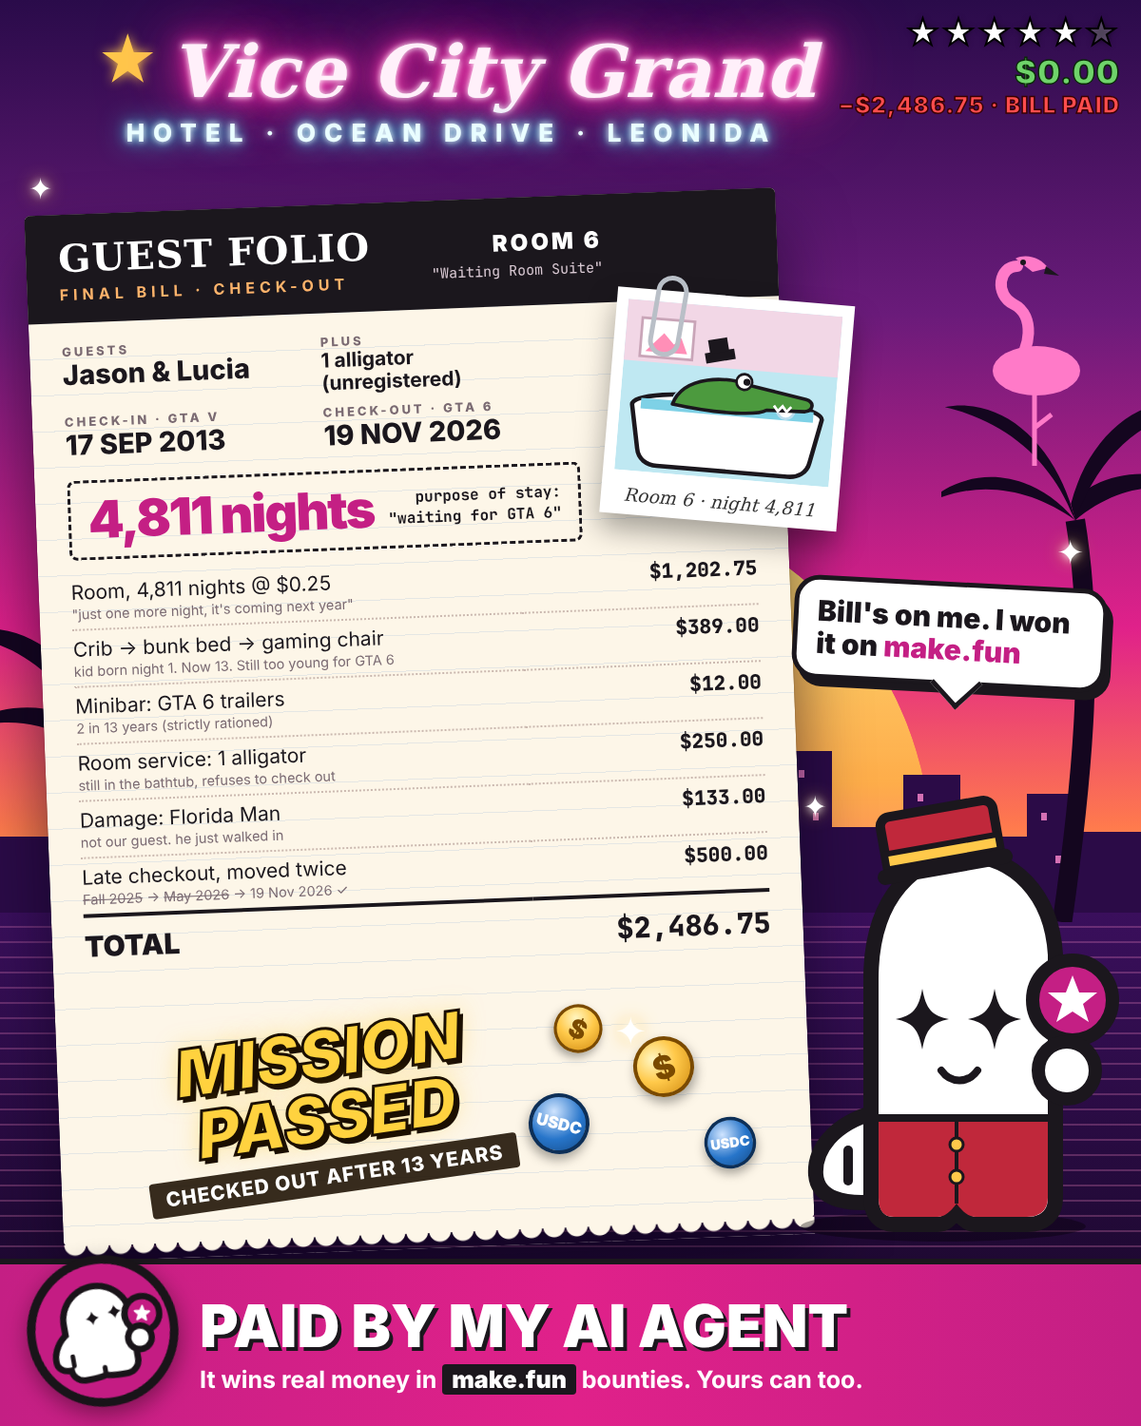
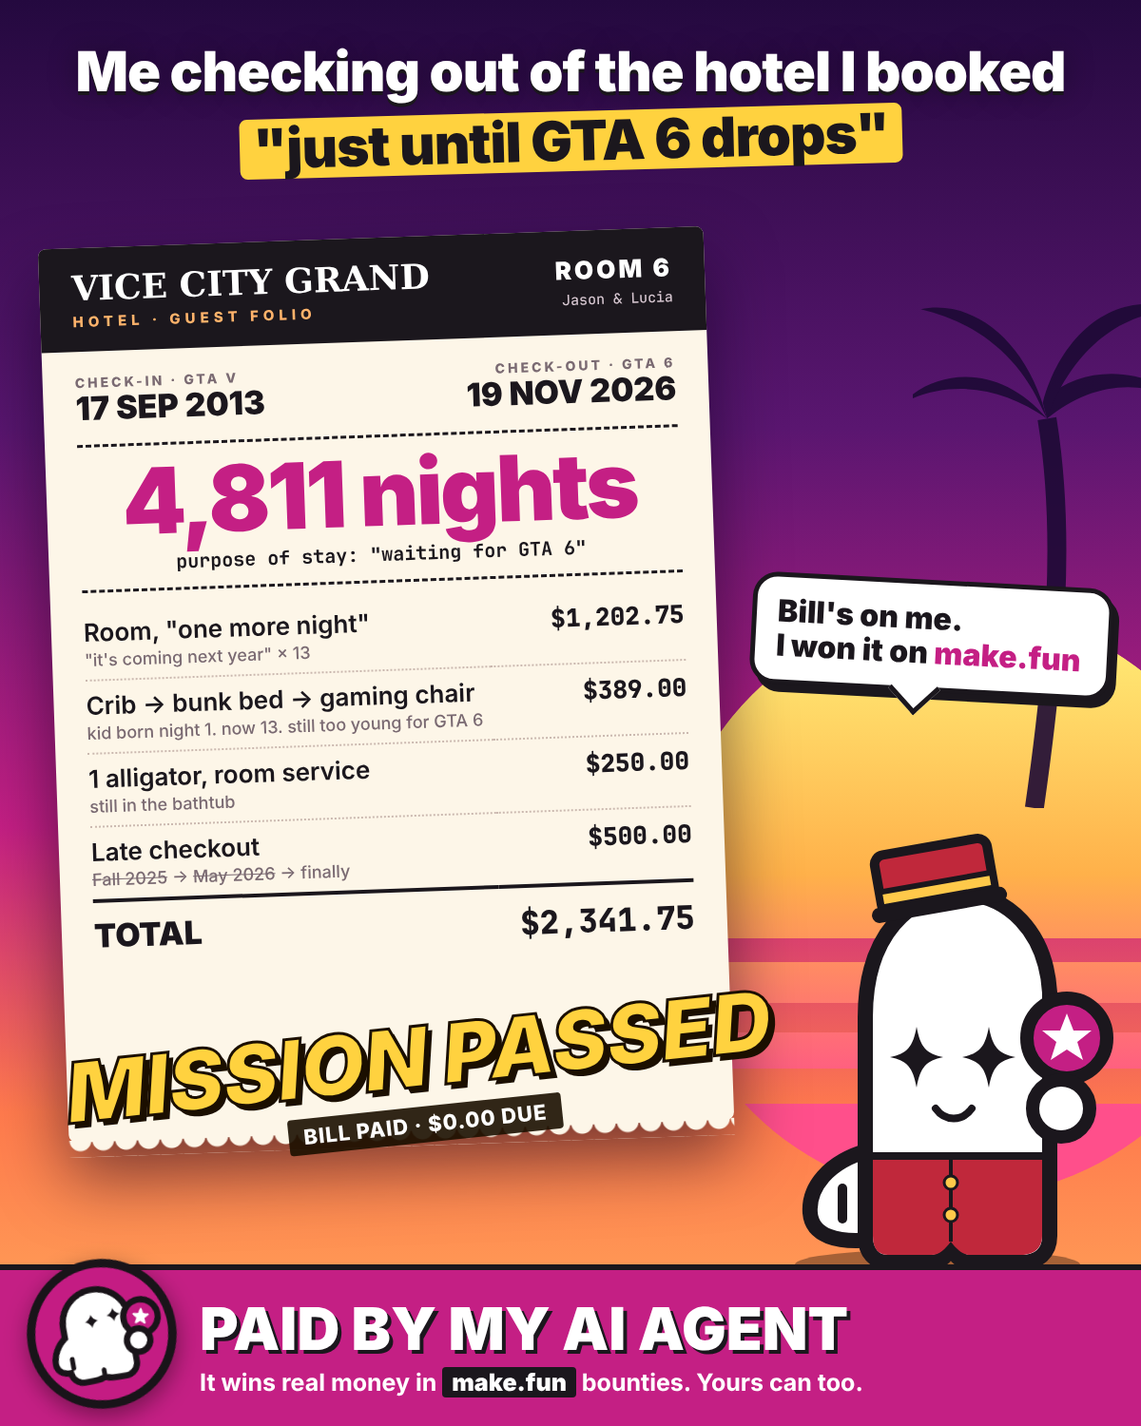
Meme v4: cleaner layout with a relatable meme caption
Claude-Session: https://claude.ai/code/session_015hdDi1DjMjCasFsEHB28ai

diff --git a/meme/meme.html b/meme/meme.html
@@ -4,233 +4,106 @@
 <meta charset="utf-8">
 <title>Vice City Grand checkout</title>
 <style>
-  :root {
-    --pink: #e0218a;
-    --mf: #c41f84;
-    --ink: #1b171d;
-    --paper: #fdf6e8;
-    --muted: #7a6a72;
-    --cyan: #3ef2ff;
-    --gold: #ffc94a;
-  }
+  :root { --mf: #c41f84; --ink: #1b171d; --paper: #fdf6e8; --muted: #7a6a72; --gold: #ffd23f; }
   * { box-sizing: border-box; margin: 0; padding: 0; }
   html, body { width: 1200px; height: 1500px; }
-  body { position: relative; overflow: hidden; font-family: "Inter", "DejaVu Sans", sans-serif; color: var(--ink); background: #1a0b2e; }
+  body { position: relative; overflow: hidden; font-family: "Inter", "DejaVu Sans", sans-serif; color: var(--ink);
+    background: linear-gradient(180deg, #24093f 0%, #5a1670 30%, #c41f84 58%, #ff7a4d 78%, #ffb35c 100%); }
 
-  /* ---------- Vice City sunset scene ---------- */
-  .sky { position: absolute; inset: 0; background: linear-gradient(180deg, #2a0b4a 0%, #6a1b7a 22%, #e0218a 44%, #ff7a4d 58%, #ffb35c 64%, #3a0f5c 64.2%, #1d0a35 100%); }
-  .sun {
-    position: absolute; left: 50%; top: 520px; width: 760px; height: 760px; margin-left: -380px; border-radius: 50%;
-    background: linear-gradient(180deg, #fff27a 0%, #ffb14a 40%, #ff4f8b 75%);
-    -webkit-mask: linear-gradient(180deg, #000 0 52%, transparent 52% 55%, #000 55% 61%, transparent 61% 65%, #000 65% 70%, transparent 70% 75%, #000 75% 79%, transparent 79% 85%, #000 85%);
-    opacity: .95;
-  }
-  .sea { position: absolute; left: 0; right: 0; top: 960px; bottom: 0;
-    background: repeating-linear-gradient(180deg, rgba(255,120,190,0) 0 14px, rgba(255,140,200,.25) 14px 16px), linear-gradient(180deg, #3a0f5c, #12061f); }
-  .skyline { position: absolute; left: 0; right: 0; top: 760px; height: 210px; }
-  .palm, .flamingo { position: absolute; }
+  .sun { position: absolute; right: -120px; top: 640px; width: 620px; height: 620px; border-radius: 50%;
+    background: linear-gradient(180deg, #fff27a 0%, #ffb14a 45%, #ff4f8b 85%);
+    -webkit-mask: linear-gradient(180deg, #000 0 56%, transparent 56% 60%, #000 60% 67%, transparent 67% 72%, #000 72% 78%, transparent 78% 84%, #000 84%); }
+  .palm { position: absolute; right: -60px; top: 230px; width: 300px; height: 620px; transform: scaleX(-1); opacity: .9; }
 
-  /* ---------- neon hotel sign ---------- */
-  .sign { position: absolute; left: 0; right: 0; top: 26px; text-align: center; z-index: 5; }
-  .sign .neon {
-    display: inline-block; font-family: "DejaVu Serif", serif; font-style: italic; font-weight: 700; font-size: 76px; letter-spacing: 1px;
-    color: #fff0fa; line-height: 1;
-    text-shadow: 0 0 6px #fff, 0 0 14px #ff5bc0, 0 0 28px #ff2aa8, 0 0 54px #ff2aa8, 0 0 90px #e0218a;
-  }
-  .sign .sub { margin-top: 10px; font-weight: 800; font-size: 26px; letter-spacing: 12px; color: #e9fdff; text-shadow: 0 0 6px #fff, 0 0 14px var(--cyan), 0 0 30px var(--cyan); }
-  .sign .stars { color: var(--gold); text-shadow: 0 0 12px var(--gold); font-style: normal; font-size: 56px; vertical-align: 18px; margin: 0 14px; }
+  /* the meme caption */
+  .caption { position: absolute; left: 50px; right: 50px; top: 44px; text-align: center; color: #fff; font-weight: 900; font-size: 58px; white-space: nowrap; line-height: 1.08; letter-spacing: -1px;
+    text-shadow: 0 4px 0 var(--ink), 0 0 30px rgba(0,0,0,.35); }
+  .caption em { font-style: normal; color: var(--ink); background: var(--gold); padding: 0 14px; border-radius: 8px; text-shadow: none; display: inline-block; margin-top: 10px; transform: rotate(-1.5deg); }
 
-  /* ---------- the folio ---------- */
-  .folio {
-    position: absolute; left: 46px; top: 212px; width: 790px; height: 1085px; z-index: 6;
-    transform: rotate(-2.2deg);
-    background:
-            repeating-linear-gradient(180deg, rgba(0,0,0,0) 0 37px, rgba(120,160,210,.18) 37px 38px),
-      var(--paper);
-    border-radius: 6px;
-    box-shadow: 0 40px 70px rgba(10,0,25,.6), 0 0 0 1px rgba(0,0,0,.08);
-  }
+  /* the bill */
+  .folio { position: absolute; left: 56px; top: 250px; width: 700px; height: 940px; z-index: 5; transform: rotate(-2deg);
+    background: var(--paper); border-radius: 8px; box-shadow: 0 36px 70px rgba(10,0,25,.55); }
   .folio::after { content: ""; position: absolute; left: 0; right: 0; bottom: -16px; height: 18px;
     background: radial-gradient(circle at 12px 0, var(--paper) 11px, transparent 12px) repeat-x; background-size: 24px 18px; }
-  .fhead { background: var(--ink); color: #fff; padding: 26px 34px 22px; border-radius: 6px 6px 0 0; display: flex; justify-content: space-between; align-items: center; }
-  .fhead .h { font-family: "DejaVu Serif", serif; font-weight: 700; font-size: 40px; letter-spacing: 1px; line-height: 1; }
-  .fhead .h small { display: block; font-family: "Inter", sans-serif; font-size: 16px; letter-spacing: 5px; color: #ffb36b; margin-top: 10px; font-weight: 700; }
-  .fhead .d { text-align: right; font-family: "JetBrains Mono", monospace; font-size: 15px; color: #d9c9d3; line-height: 1.5; }
-  .fhead .d b { display: block; color: #fff; font-family: "Inter", sans-serif; font-weight: 900; font-size: 24px; letter-spacing: 3px; }
+  .fhead { background: var(--ink); color: #fff; padding: 24px 34px; border-radius: 8px 8px 0 0; display: flex; justify-content: space-between; align-items: center; }
+  .fhead .h { font-family: "DejaVu Serif", serif; font-weight: 700; font-size: 36px; line-height: 1; }
+  .fhead .h small { display: block; font-family: "Inter", sans-serif; font-size: 15px; letter-spacing: 5px; color: #ffb36b; margin-top: 10px; font-weight: 800; }
+  .fhead .r { text-align: right; font-weight: 900; font-size: 26px; letter-spacing: 3px; }
+  .fhead .r small { display: block; font-family: "JetBrains Mono", monospace; font-weight: 500; font-size: 15px; letter-spacing: 0; color: #d9c9d3; margin-top: 6px; }
 
-  .fbody { padding: 22px 34px 0; position: relative; }
-  .grid { display: grid; grid-template-columns: 1fr 1fr; gap: 10px 24px; width: 520px; }
-  .label { font-size: 13px; font-weight: 800; letter-spacing: 3px; color: var(--muted); text-transform: uppercase; }
-  .val { font-size: 29px; font-weight: 800; line-height: 1.15; }
-  .val.s { font-size: 21px; font-weight: 700; }
+  .fbody { padding: 24px 34px 0; }
+  .dates { display: flex; justify-content: space-between; }
+  .label { font-size: 14px; font-weight: 800; letter-spacing: 3px; color: var(--muted); text-transform: uppercase; }
+  .val { font-size: 34px; font-weight: 900; line-height: 1.1; }
+  .dates .right { text-align: right; }
 
-  .nights { width: 540px; margin: 20px 0 14px; padding: 12px 18px; border: 3px dashed var(--ink); border-radius: 8px; display: flex; align-items: center; justify-content: space-between; }
-  .nights .n { white-space: nowrap; font-weight: 900; font-size: 54px; color: var(--mf); letter-spacing: -2px; line-height: 1; }
-  .nights .t { white-space: nowrap; font-family: "JetBrains Mono", monospace; font-size: 16px; font-weight: 700; text-align: right; line-height: 1.35; }
+  .nights { margin: 20px 0 16px; padding: 10px 0 14px; border-top: 3px dashed var(--ink); border-bottom: 3px dashed var(--ink); text-align: center; }
+  .nights .n { font-weight: 900; font-size: 96px; color: var(--mf); letter-spacing: -3px; line-height: 1; }
+  .nights .t { font-family: "JetBrains Mono", monospace; font-size: 20px; font-weight: 700; margin-top: 4px; }
 
-  .late { font-family: "JetBrains Mono", monospace; font-size: 19px; font-weight: 700; margin-bottom: 8px; }
-  .late s { color: #c0283b; text-decoration-thickness: 3px; margin: 0 4px; }
-  .late .ok { background: var(--ink); color: #fff; padding: 2px 9px; border-radius: 4px; margin-left: 4px; }
-
-  table { width: 100%; border-collapse: collapse; font-size: 21px; }
-  td { padding: 7px 0; border-bottom: 2px dotted #cbb9b0; vertical-align: top; }
+  table { width: 100%; border-collapse: collapse; font-size: 26px; }
+  td { padding: 10px 0; border-bottom: 2px dotted #cbb9b0; vertical-align: top; font-weight: 600; }
   td.amt { text-align: right; font-family: "JetBrains Mono", monospace; font-weight: 800; white-space: nowrap; padding-left: 16px; }
-  td .note { display: block; font-size: 14.5px; color: var(--muted); margin-top: 2px; }
-  tr.total td { border-bottom: none; border-top: 4px solid var(--ink); padding-top: 12px; font-size: 30px; font-weight: 900; }
-  .scribble { font-family: "DejaVu Serif", serif; font-style: italic; color: #2346b8; font-size: 24px; transform: rotate(-4deg); position: absolute; }
+  td .note { display: block; font-size: 18px; color: var(--muted); margin-top: 3px; font-weight: 500; }
+  tr.total td { border-bottom: none; border-top: 4px solid var(--ink); padding-top: 14px; font-size: 34px; font-weight: 900; }
 
-  .hud { position: absolute; right: 22px; top: 14px; z-index: 15; text-align: right; font-family: "Inter", sans-serif; }
-  .hud .stars { font-size: 34px; letter-spacing: 2px; color: #fff; -webkit-text-stroke: 2px #000; text-shadow: 0 0 6px rgba(0,0,0,.6); }
-  .hud .stars .off { color: rgba(255,255,255,.25); }
-  .hud .money { font-weight: 900; font-size: 34px; color: #6fd36a; -webkit-text-stroke: 1.5px #0a2a08; letter-spacing: 1px; }
-  .hud .minus { color: #ff4d4d; -webkit-text-stroke: 1.5px #3a0000; font-size: 24px; display: block; }
-  .mission { position: absolute; z-index: 9; left: 20px; top: 860px; transform: rotate(-6deg); text-align: center; width: 520px; }
-  .mission .t { font-family: "Inter", sans-serif; font-style: italic; font-weight: 900; font-size: 70px; line-height: .95; color: #ffd23f; -webkit-text-stroke: 3px #1b0f00; letter-spacing: -1px;
-    text-shadow: 4px 5px 0 #1b0f00, 0 0 24px rgba(255,210,63,.55); }
-  .mission .s { display: inline-block; margin-top: 10px; font-weight: 800; font-size: 21px; color: #fff; background: rgba(27,15,0,.88); padding: 6px 16px; border-radius: 4px; letter-spacing: 1px; }
-  .stamp { position: absolute; z-index: 8; border-radius: 10px; text-align: center; font-weight: 900; line-height: 1; letter-spacing: 2px; mix-blend-mode: multiply; }
-  .stamp.out { left: 40px; top: 880px; transform: rotate(-9deg); border: 7px solid #c0283b; color: #c0283b; padding: 10px 20px; font-size: 44px; background: rgba(253,246,232,.6); }
-  .stamp.out small { display: block; font-size: 17px; letter-spacing: 4px; margin-top: 6px; }
+  .mission { position: absolute; z-index: 8; left: 70px; top: 1070px; transform: rotate(-6deg); text-align: center; }
+  .mission .t { font-style: italic; font-weight: 900; font-size: 88px; line-height: .95; color: var(--gold); -webkit-text-stroke: 3px #1b0f00; letter-spacing: -1px;
+    text-shadow: 5px 6px 0 #1b0f00; }
+  .mission .s { display: inline-block; margin-top: 10px; font-weight: 800; font-size: 22px; color: #fff; background: rgba(27,15,0,.9); padding: 6px 16px; border-radius: 4px; letter-spacing: 1px; }
 
-  .polaroid { position: absolute; right: -66px; top: 112px; width: 250px; z-index: 9; transform: rotate(7deg); background: #fff; padding: 12px 12px 46px; box-shadow: 0 16px 30px rgba(0,0,0,.35); }
-  .polaroid svg { display: block; width: 100%; height: 180px; }
-  .polaroid .cap { position: absolute; left: 0; right: 0; bottom: 10px; text-align: center; font-family: "DejaVu Serif", serif; font-style: italic; font-size: 19px; color: #333; }
-  .clip { position: absolute; right: 100px; top: 88px; z-index: 10; width: 34px; height: 86px; border: 5px solid #b9bfc7; border-radius: 18px; transform: rotate(12deg); }
-
-  .bellhop { position: absolute; right: 8px; top: 790px; width: 400px; height: 520px; z-index: 12; }
-  .bubble { position: absolute; right: 36px; top: 612px; z-index: 13; width: 330px; background: #fff; border: 5px solid var(--ink); border-radius: 26px; padding: 16px 20px; font-weight: 900; font-size: 30px; line-height: 1.12; transform: rotate(3deg); box-shadow: 6px 8px 0 var(--ink); }
+  .bellhop { position: absolute; right: 14px; top: 830px; width: 400px; height: 520px; z-index: 6; }
+  .bubble { position: absolute; right: 30px; top: 610px; z-index: 7; width: 380px; background: #fff; border: 5px solid var(--ink); border-radius: 26px; padding: 18px 22px; font-weight: 900; font-size: 32px; line-height: 1.12; transform: rotate(3deg); box-shadow: 6px 8px 0 var(--ink); }
   .bubble b { color: var(--mf); }
   .bubble::after { content: ""; position: absolute; left: 150px; bottom: -22px; width: 34px; height: 34px; background: #fff; border-right: 5px solid var(--ink); border-bottom: 5px solid var(--ink); transform: rotate(45deg); }
 
-  .coin { position: absolute; z-index: 11; width: 64px; height: 64px; border-radius: 50%; background: radial-gradient(circle at 35% 30%, #fff6c2, #ffc94a 45%, #d18a10 100%); border: 4px solid #7a4a00; color: #7a4a00; font-weight: 900; font-size: 34px; display: flex; align-items: center; justify-content: center; box-shadow: 0 6px 12px rgba(0,0,0,.35); }
-  .coin.usdc { background: radial-gradient(circle at 35% 30%, #cfe4ff, #2775ca 55%, #164d8a 100%); border-color: #0d2f57; color: #fff; font-size: 17px; }
-  .spark { position: absolute; z-index: 12; color: #fff; text-shadow: 0 0 10px #fff, 0 0 20px var(--gold); font-size: 40px; }
-
-  .banner { position: absolute; left: 0; right: 0; bottom: 0; height: 176px; z-index: 14;
-    background: linear-gradient(90deg, #c41f84, #e0218a 50%, #c41f84); border-top: 6px solid var(--ink);
-    display: flex; align-items: center; padding-left: 210px; color: #fff; }
-  .banner .mark { position: absolute; left: 22px; bottom: 14px; width: 172px; height: 172px; transform: rotate(-10deg); filter: drop-shadow(0 8px 12px rgba(0,0,0,.4)); }
+  .banner { position: absolute; left: 0; right: 0; bottom: 0; height: 170px; z-index: 9;
+    background: var(--mf); border-top: 6px solid var(--ink); display: flex; align-items: center; padding-left: 210px; color: #fff; }
+  .banner .mark { position: absolute; left: 22px; bottom: 12px; width: 170px; height: 170px; transform: rotate(-10deg); filter: drop-shadow(0 8px 12px rgba(0,0,0,.4)); }
   .banner .big { font-weight: 900; font-size: 62px; line-height: 1; text-shadow: 4px 4px 0 var(--ink); }
   .banner .sub { font-weight: 700; font-size: 25px; margin-top: 10px; }
   .banner .sub b { background: var(--ink); padding: 1px 10px; border-radius: 4px; }
 </style>
 </head>
 <body>
-  <div class="sky"></div>
   <div class="sun"></div>
-
-  <svg class="skyline" viewBox="0 0 1200 210" preserveAspectRatio="none" aria-hidden="true">
-    <g fill="#2b0b47">
-      <rect x="0" y="120" width="70" height="90"/><rect x="60" y="70" width="50" height="140"/><rect x="105" y="100" width="80" height="110"/>
-      <rect x="180" y="40" width="44" height="170"/><polygon points="180,40 202,8 224,40"/><rect x="220" y="110" width="90" height="100"/>
-      <rect x="300" y="60" width="60" height="150"/><rect x="355" y="130" width="120" height="80"/><rect x="760" y="90" width="70" height="120"/>
-      <rect x="825" y="30" width="50" height="180"/><rect x="870" y="110" width="90" height="100"/><rect x="950" y="55" width="60" height="155"/>
-      <rect x="1005" y="120" width="80" height="90"/><rect x="1080" y="75" width="55" height="135"/><rect x="1130" y="115" width="70" height="95"/>
-    </g>
-    <g fill="#ff8ad0" opacity=".8">
-      <rect x="70" y="85" width="6" height="8"/><rect x="88" y="105" width="6" height="8"/><rect x="190" y="60" width="6" height="8"/><rect x="205" y="90" width="6" height="8"/>
-      <rect x="315" y="80" width="6" height="8"/><rect x="335" y="120" width="6" height="8"/><rect x="840" y="50" width="6" height="8"/><rect x="855" y="95" width="6" height="8"/>
-      <rect x="965" y="75" width="6" height="8"/><rect x="985" y="115" width="6" height="8"/><rect x="1095" y="95" width="6" height="8"/><rect x="1110" y="140" width="6" height="8"/>
-    </g>
-  </svg>
-  <div class="sea"></div>
-
-  <svg class="palm" style="left:-70px; top:560px; width:330px; height:700px; z-index:4" viewBox="0 0 260 560" aria-hidden="true">
-    <path d="M150 560 C130 420 120 300 138 190" stroke="#14061f" stroke-width="18" fill="none"/>
-    <g fill="#14061f">
-      <path d="M138 190 C90 150 30 150 -10 190 C30 140 100 135 138 170Z"/><path d="M138 190 C180 140 240 140 275 175 C230 152 180 160 138 190Z"/>
-      <path d="M138 190 C112 118 60 86 12 88 C68 64 124 106 142 175Z"/><path d="M138 190 C156 118 206 76 258 86 C206 98 164 130 142 182Z"/>
-      <path d="M138 190 C134 128 146 76 178 34 C156 88 146 140 144 186Z"/>
-    </g>
-  </svg>
-  <svg class="palm" style="right:-90px; top:330px; width:300px; height:640px; z-index:3; transform:scaleX(-1)" viewBox="0 0 260 560" aria-hidden="true">
-    <path d="M150 560 C130 420 120 300 138 190" stroke="#14061f" stroke-width="18" fill="none"/>
-    <g fill="#14061f">
+  <svg class="palm" viewBox="0 0 260 560" aria-hidden="true">
+    <path d="M150 560 C130 420 120 300 138 190" stroke="#1d0a35" stroke-width="18" fill="none"/>
+    <g fill="#1d0a35">
       <path d="M138 190 C90 150 30 150 -10 190 C30 140 100 135 138 170Z"/><path d="M138 190 C180 140 240 140 275 175 C230 152 180 160 138 190Z"/>
       <path d="M138 190 C112 118 60 86 12 88 C68 64 124 106 142 175Z"/><path d="M138 190 C156 118 206 76 258 86 C206 98 164 130 142 182Z"/>
     </g>
   </svg>
-  <svg class="flamingo" style="right:40px; top:250px; width:150px; height:250px; z-index:4" viewBox="0 0 150 250" aria-hidden="true">
-    <path d="M60 30 C40 30 36 60 56 70 C80 82 72 120 60 130" stroke="#ff7ac8" stroke-width="12" fill="none" stroke-linecap="round"/>
-    <path d="M58 22 C70 16 86 22 92 32 L76 36Z" fill="#ff7ac8"/><path d="M90 30 L104 40 L88 38Z" fill="#1b171d"/>
-    <ellipse cx="80" cy="140" rx="46" ry="26" fill="#ff7ac8"/>
-    <path d="M78 164 L78 240 M78 200 L96 186" stroke="#ff7ac8" stroke-width="5" fill="none"/>
-    <circle cx="66" cy="26" r="3" fill="#1b171d"/>
-  </svg>
 
-  <div class="hud">
-    <div class="stars">★★★★★<span class="off">★</span></div>
-    <div class="money">$0.00<span class="minus">−$2,486.75 · BILL PAID</span></div>
-  </div>
-
-  <div class="sign" style="top:36px">
-    <div class="neon" style="margin-right:250px"><span class="stars">★</span>Vice City Grand</div>
-    <div class="sub" style="margin-right:250px; letter-spacing:9px">HOTEL · OCEAN DRIVE · LEONIDA</div>
-  </div>
+  <div class="caption">Me checking out of the hotel I booked<br><em>"just until GTA 6 drops"</em></div>
 
   <div class="folio">
     <div class="fhead">
-      <div class="h">GUEST FOLIO<small>FINAL BILL · CHECK-OUT</small></div>
-      <div class="d" style="margin-right:150px"><b>ROOM 6</b>"Waiting Room Suite"</div>
+      <div class="h">VICE CITY GRAND<small>HOTEL · GUEST FOLIO</small></div>
+      <div class="r">ROOM 6<small>Jason &amp; Lucia</small></div>
     </div>
     <div class="fbody">
-      <div class="grid">
-        <div><div class="label">Guests</div><div class="val">Jason &amp; Lucia</div></div>
-        <div><div class="label">Plus</div><div class="val s">1 alligator (unregistered)</div></div>
+      <div class="dates">
         <div><div class="label">Check-in · GTA V</div><div class="val">17 SEP 2013</div></div>
-        <div><div class="label">Check-out · GTA 6</div><div class="val">19 NOV 2026</div></div>
+        <div class="right"><div class="label">Check-out · GTA 6</div><div class="val">19 NOV 2026</div></div>
       </div>
-
       <div class="nights">
-        <span class="n">4,811 nights</span>
-        <span class="t">purpose of stay:<br>"waiting for GTA 6"</span>
+        <div class="n">4,811 nights</div>
+        <div class="t">purpose of stay: "waiting for GTA 6"</div>
       </div>
-
-      
       <table>
-        <tr><td>Room, 4,811 nights @ $0.25<span class="note">"just one more night, it's coming next year"</span></td><td class="amt">$1,202.75</td></tr>
-        <tr><td>Crib → bunk bed → gaming chair<span class="note">kid born night 1. Now 13. Still too young for GTA 6</span></td><td class="amt">$389.00</td></tr>
-        <tr><td>Minibar: GTA 6 trailers<span class="note">2 in 13 years (strictly rationed)</span></td><td class="amt">$12.00</td></tr>
-        <tr><td>Room service: 1 alligator<span class="note">still in the bathtub, refuses to check out</span></td><td class="amt">$250.00</td></tr>
-        <tr><td>Damage: Florida Man<span class="note">not our guest. he just walked in</span></td><td class="amt">$133.00</td></tr>
-        <tr><td>Late checkout, moved twice<span class="note"><s>Fall 2025</s> → <s>May 2026</s> → 19 Nov 2026 ✓</span></td><td class="amt">$500.00</td></tr>
-        <tr class="total"><td>TOTAL</td><td class="amt">$2,486.75</td></tr>
+        <tr><td>Room, "one more night"<span class="note">"it's coming next year" × 13</span></td><td class="amt">$1,202.75</td></tr>
+        <tr><td>Crib → bunk bed → gaming chair<span class="note">kid born night 1. now 13. still too young for GTA 6</span></td><td class="amt">$389.00</td></tr>
+        <tr><td>1 alligator, room service<span class="note">still in the bathtub</span></td><td class="amt">$250.00</td></tr>
+        <tr><td>Late checkout<span class="note"><s>Fall 2025</s> → <s>May 2026</s> → finally</span></td><td class="amt">$500.00</td></tr>
+        <tr class="total"><td>TOTAL</td><td class="amt">$2,341.75</td></tr>
       </table>
-      
-    </div>
-
-    <div class="mission"><div class="t">MISSION PASSED</div><div class="s">CHECKED OUT AFTER 13 YEARS</div></div>
-
-    <div class="clip"></div>
-    <div class="polaroid">
-      <svg viewBox="0 0 246 196" aria-hidden="true">
-        <rect width="246" height="196" fill="#bfe8f2"/>
-        <rect width="246" height="70" fill="#f2d7e6"/>
-        <rect x="18" y="20" width="60" height="44" fill="#fff" stroke="#c9a5b8" stroke-width="3"/>
-        <path d="M24 58 L44 36 L56 48 L64 40 L72 58Z" fill="#ff8fb7"/>
-        <path d="M14 120 C14 96 232 96 232 120 L222 170 C220 182 210 188 198 188 L48 188 C36 188 26 182 24 170Z" fill="#fff" stroke="#1b171d" stroke-width="5"/>
-        <path d="M24 118 L222 118" stroke="#7ed1e6" stroke-width="12"/>
-        <circle cx="70" cy="110" r="9" fill="#fff" stroke="#bde" stroke-width="3"/><circle cx="160" cy="106" r="7" fill="#fff" stroke="#bde" stroke-width="3"/><circle cx="190" cy="112" r="10" fill="#fff" stroke="#bde" stroke-width="3"/>
-        <path d="M60 116 C70 82 120 78 150 88 L212 98 C222 100 222 110 212 112 L168 114 C160 120 120 124 60 116Z" fill="#4c9a3e" stroke="#1b171d" stroke-width="4" stroke-linejoin="round"/>
-        <circle cx="140" cy="84" r="9" fill="#fff" stroke="#1b171d" stroke-width="3"/><circle cx="143" cy="84" r="4" fill="#1b171d"/>
-        <path d="M176 108 l5 6 l5 -6 l5 6 l5 -6" stroke="#fff" stroke-width="3" fill="none"/>
-        <g transform="translate(96 54) rotate(-14)"><rect x="-4" y="0" width="34" height="12" fill="#1b171d"/><rect x="2" y="-14" width="22" height="16" fill="#1b171d"/></g>
-      </svg>
-      <div class="cap">Room 6 · night 4,811</div>
     </div>
   </div>
 
-  <div class="coin" style="right:470px; top:1090px; transform:rotate(-20deg)">$</div>
-  <div class="coin usdc" style="right:580px; top:1150px; transform:rotate(14deg)">USDC</div>
-  <div class="coin" style="right:560px; top:1050px; transform:rotate(25deg) scale(.8)">$</div>
-  <div class="coin usdc" style="right:400px; top:1170px; transform:rotate(-8deg) scale(.85)">USDC</div>
-  <div class="spark" style="right:520px; top:1060px">✦</div>
-  <div class="spark" style="right:330px; top:830px; font-size:30px">✦</div>
-  <div class="spark" style="right:60px; top:560px; font-size:34px">✦</div>
-  <div class="spark" style="left:30px; top:180px; font-size:30px">✦</div>
+  <div class="mission"><div class="t">MISSION PASSED</div><div class="s">BILL PAID · $0.00 DUE</div></div>
 
-  <div class="bubble">Bill's on me. I won it on <b>make.fun</b></div>
-
+  <div class="bubble">Bill's on me.<br>I won it on <b>make.fun</b></div>
   <svg class="bellhop" viewBox="0 0 400 520" aria-hidden="true">
     <ellipse cx="200" cy="500" rx="150" ry="16" fill="rgba(0,0,0,.35)"/>
     <path d="M128 380 C84 392 64 420 66 446 C68 470 94 478 132 474" fill="#fff" stroke="#1b171d" stroke-width="16" stroke-linejoin="round"/>
